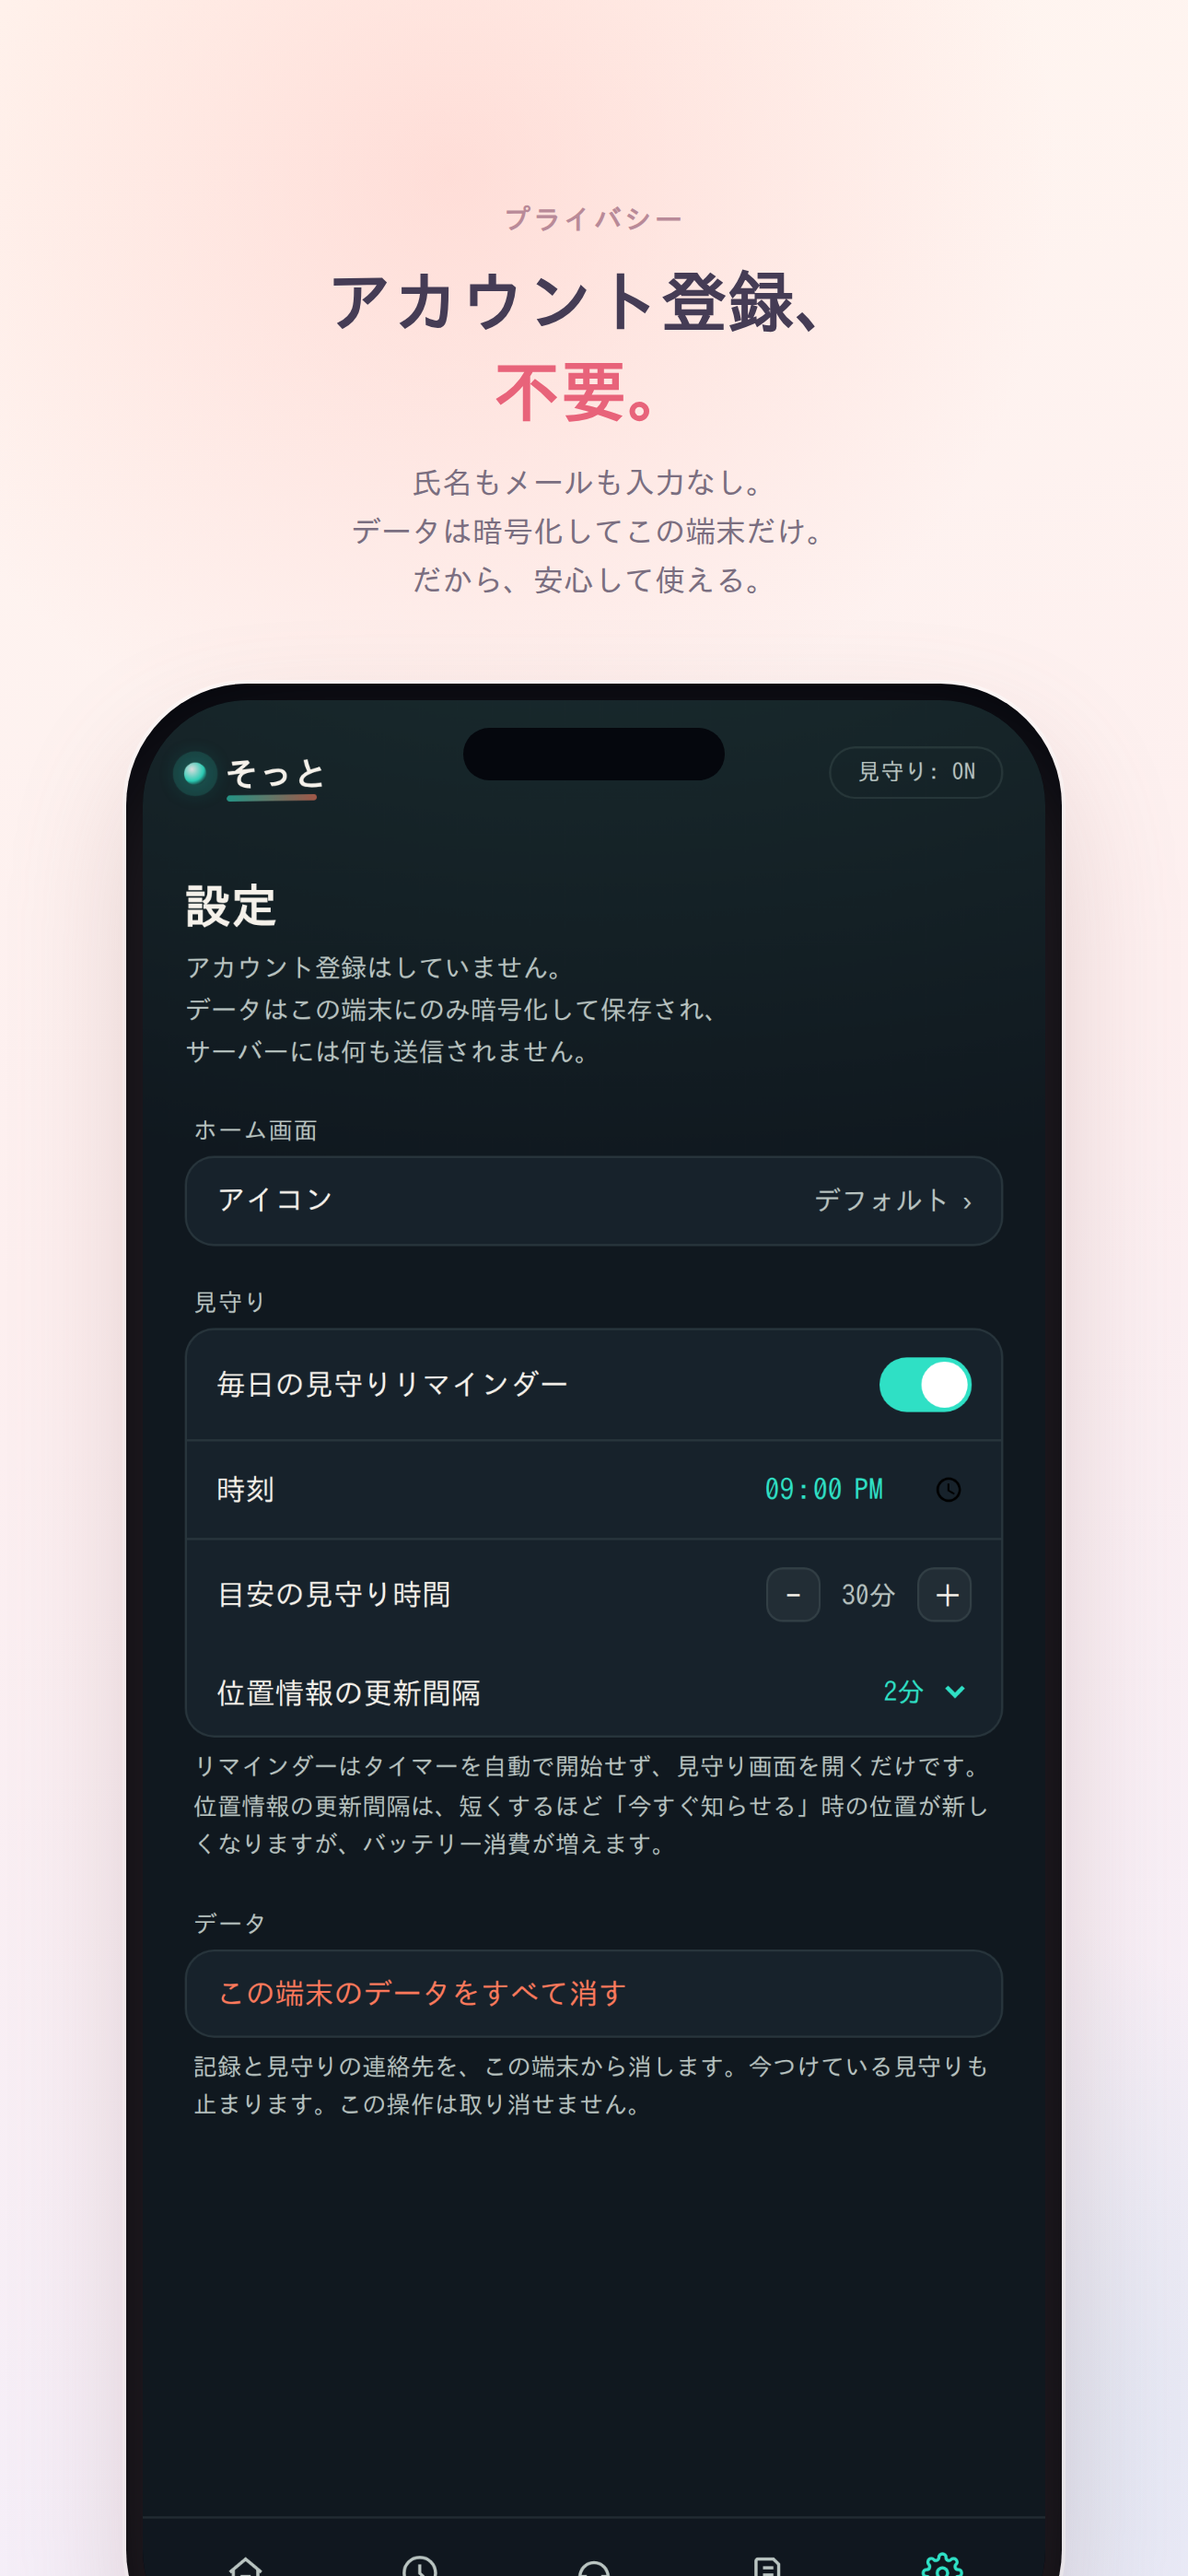
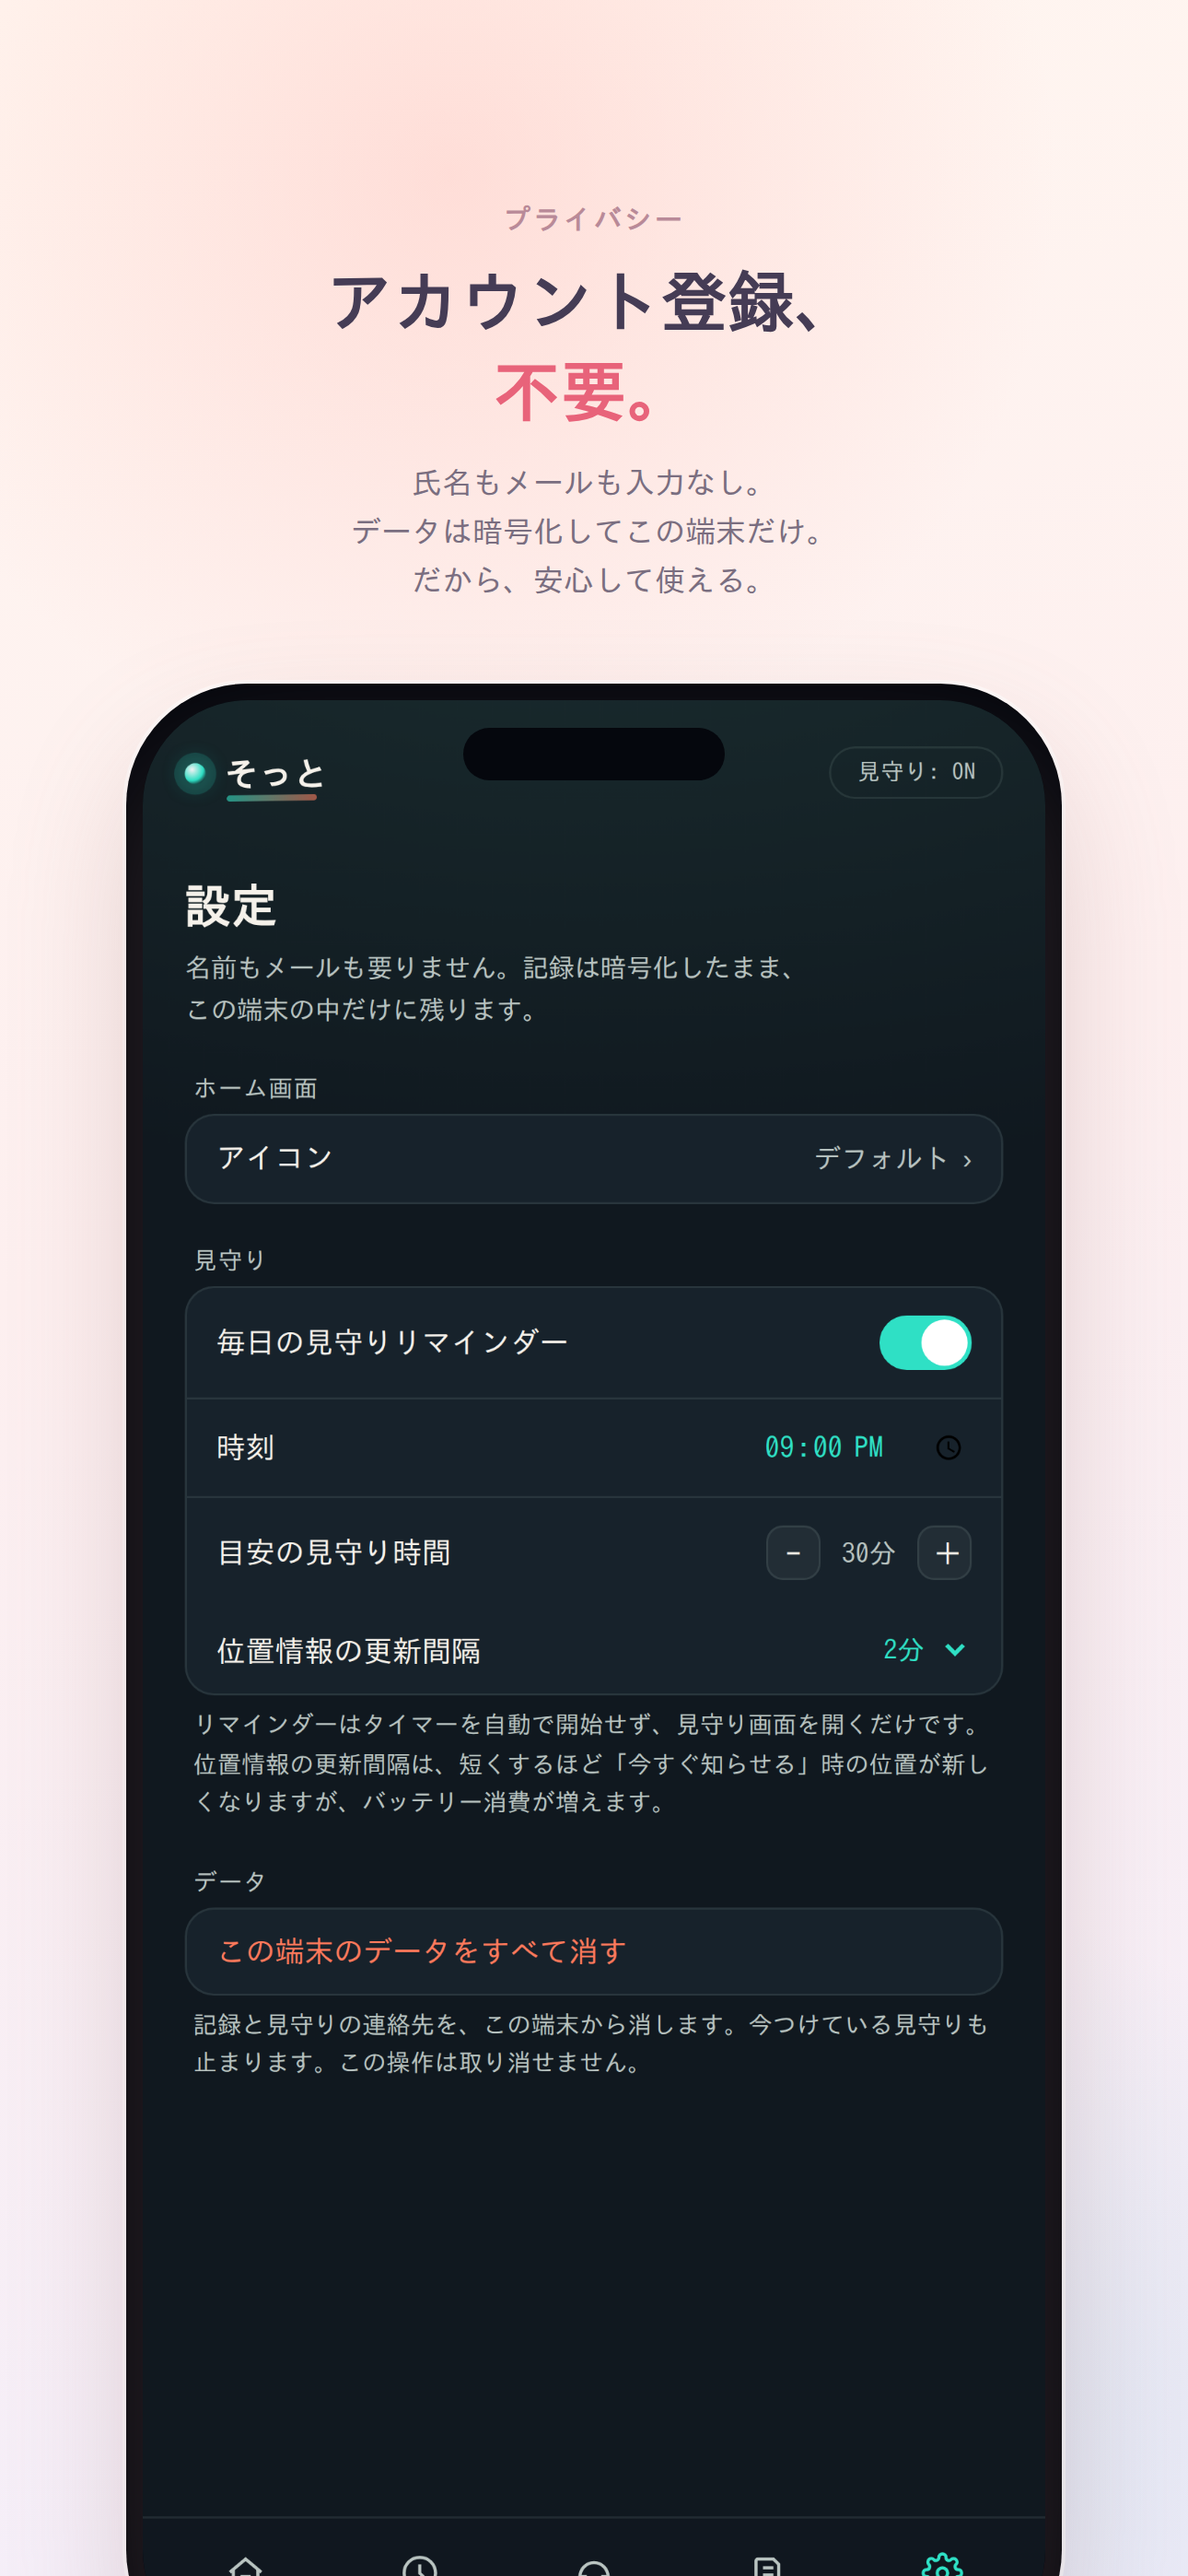
Reword Settings intro copy, less disclaimer-like
"アカウント登録はしていません。データは...サーバーには何も送信されません。"
read like boilerplate legal text. Replaced with "名前もメールも要りません。
記録は暗号化したまま、この端末の中だけに残ります。" — same facts, warmer
phrasing consistent with the rest of the app's voice. Left the erase-data
warning below untouched (didn't add "暗号化" there too — it would just
repeat what the text right above it already says).

diff --git a/SafeLineiOS/SafeLine/Views/SettingsView.swift b/SafeLineiOS/SafeLine/Views/SettingsView.swift
@@ -25,7 +25,7 @@ struct SettingsView: View {
         NavigationStack {
             Form {
                 Section {
-                    Text("このアプリはアカウント登録をせず、\nデータはこの端末にのみ暗号化して保存されます。\nサーバーには何も送信されません。")
+                    Text("名前もメールも要りません。記録は暗号化したまま、\nこの端末の中だけに残ります。")
                         .font(.system(size: 12.5, design: .rounded))
                         .foregroundColor(.safeTextDim)
                 }

diff --git a/prototype/safeline.html b/prototype/safeline.html
@@ -628,7 +628,7 @@
   <!-- ================= SETTINGS ================= -->
   <div class="screen" id="screen-settings">
     <h1 class="hero">設定</h1>
-    <p class="hero-sub">アカウント登録はしていません。<br>データはこの端末にのみ暗号化して保存され、<br>サーバーには何も送信されません。</p>
+    <p class="hero-sub">名前もメールも要りません。記録は暗号化したまま、<br>この端末の中だけに残ります。</p>
 
     <div class="settings-group">
       <div class="group-header">ホーム画面</div>
